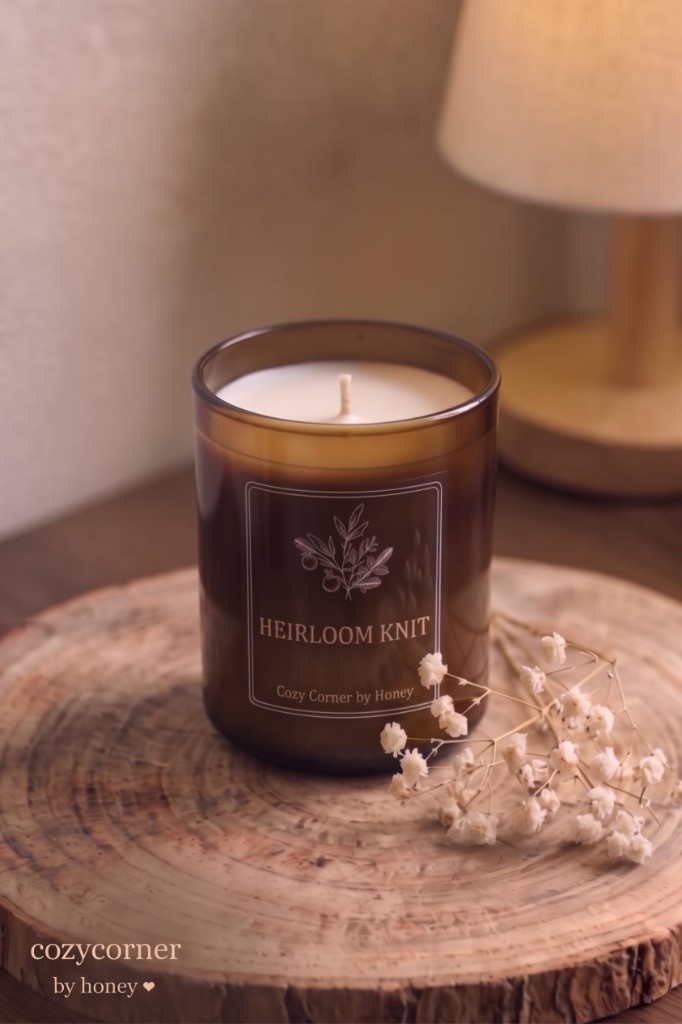
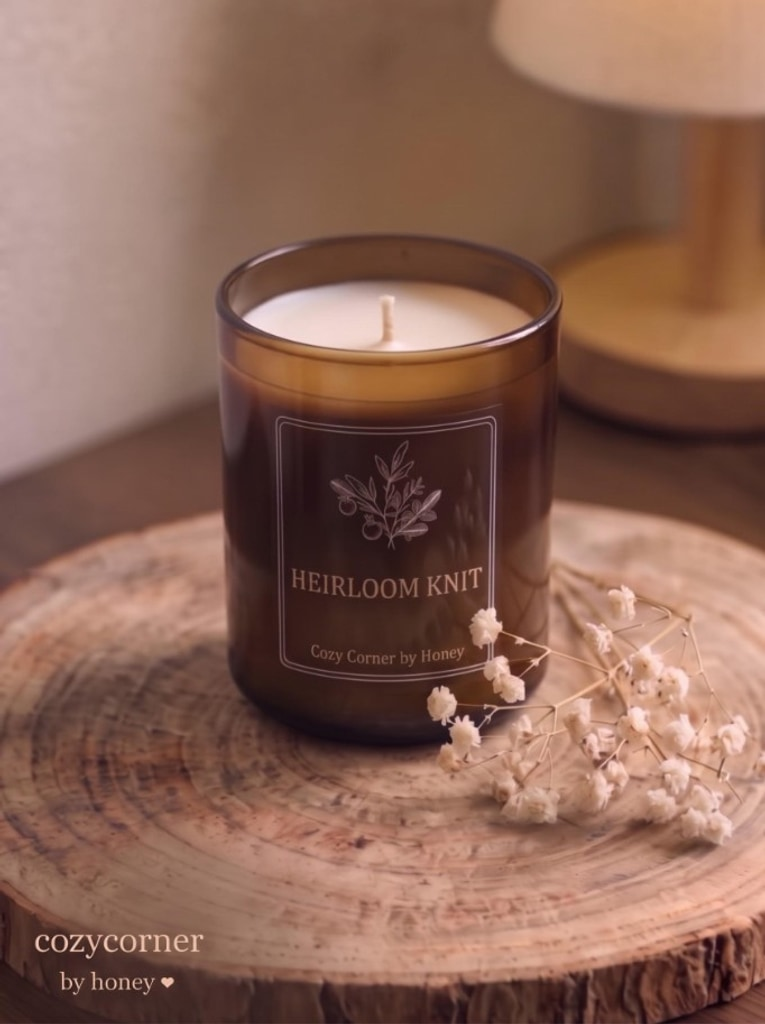
Update images and adjust hero-float aspect ratio in globals.css

diff --git a/src/app/globals.css b/src/app/globals.css
@@ -327,7 +327,7 @@ em { font-style: italic; }
 .hero-float {
   position: absolute;
   width: 34%;
-  aspect-ratio: 2 / 3;
+  aspect-ratio: 3 / 4;
   left: auto;
   right: 5%;
   bottom: 8%;
